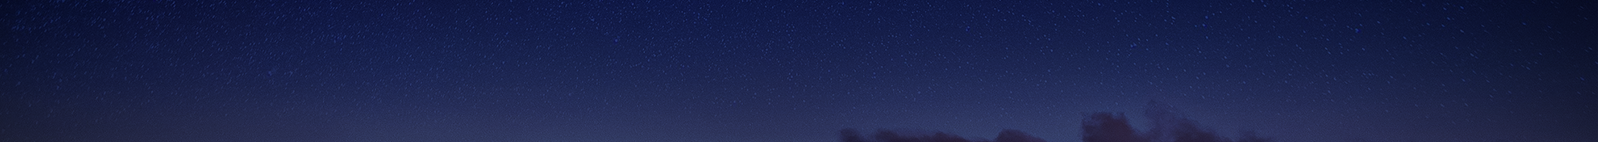
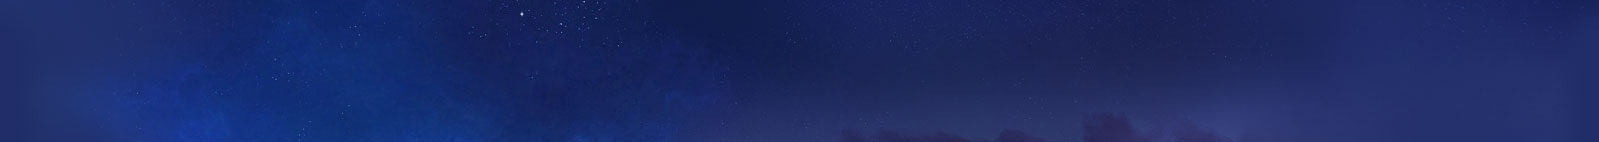
修改供应商头部

diff --git a/static/css/supplier_common.css b/static/css/supplier_common.css
@@ -14,7 +14,8 @@
 }
 
 .bg-header-repeat {
-	background: url(../images/supplier/bg-head.png) repeat-x;
+	/*background: url(../images/supplier/bg-head.png) repeat-x;*/
+	background-color: #212d69;
 	height: 140px;
 }
 
@@ -43,6 +44,7 @@
 .main-header {
 	background: url(../images/supplier/head.png) no-repeat;
 	/*width: 84%;*/
+	width: 1600px;
 	height: 139px;
 	margin: 0 auto;
 }
@@ -68,7 +70,9 @@
 }
 
 .logout {
-	padding: 5px 10px;
+	padding: 6px 10px;
+	position: relative;
+	bottom: 5px;
 }
 
 .logout:hover {
@@ -77,16 +81,13 @@
 }
 
 .user-setting {
-	margin-top: 12px;
+	text-align: center;
 	color: #606060;
 	font-size: 14px;
-}
-.setting-title {
-	display: inline-block;
-	height: 32px;
-	width: 48px;
-	text-align: center;
-	line-height: 32px;
+	padding: 6px 10px;
+	position: relative;
+	bottom: 5px;
+	float: none!important;
 }
 .user-setting-active,
 .user-setting:hover {

diff --git a/供应商/旅游/线路管理/线路管理.html b/供应商/旅游/线路管理/线路管理.html
@@ -98,8 +98,8 @@
                         <span class="person-icon"></span>
                         <span class="person-name" title="zhaoshuaigeng12312321">zhaoshuaigeng12312321</span>
                         <a class="logout" href="javascript:void(0);">退出</a>
+                        <span class="user-setting">设置</span>
                     </li>
-                    <li class="user-setting"><span class="setting-title">设置</span></li>
                 </ul>
             </div>
         </div>
